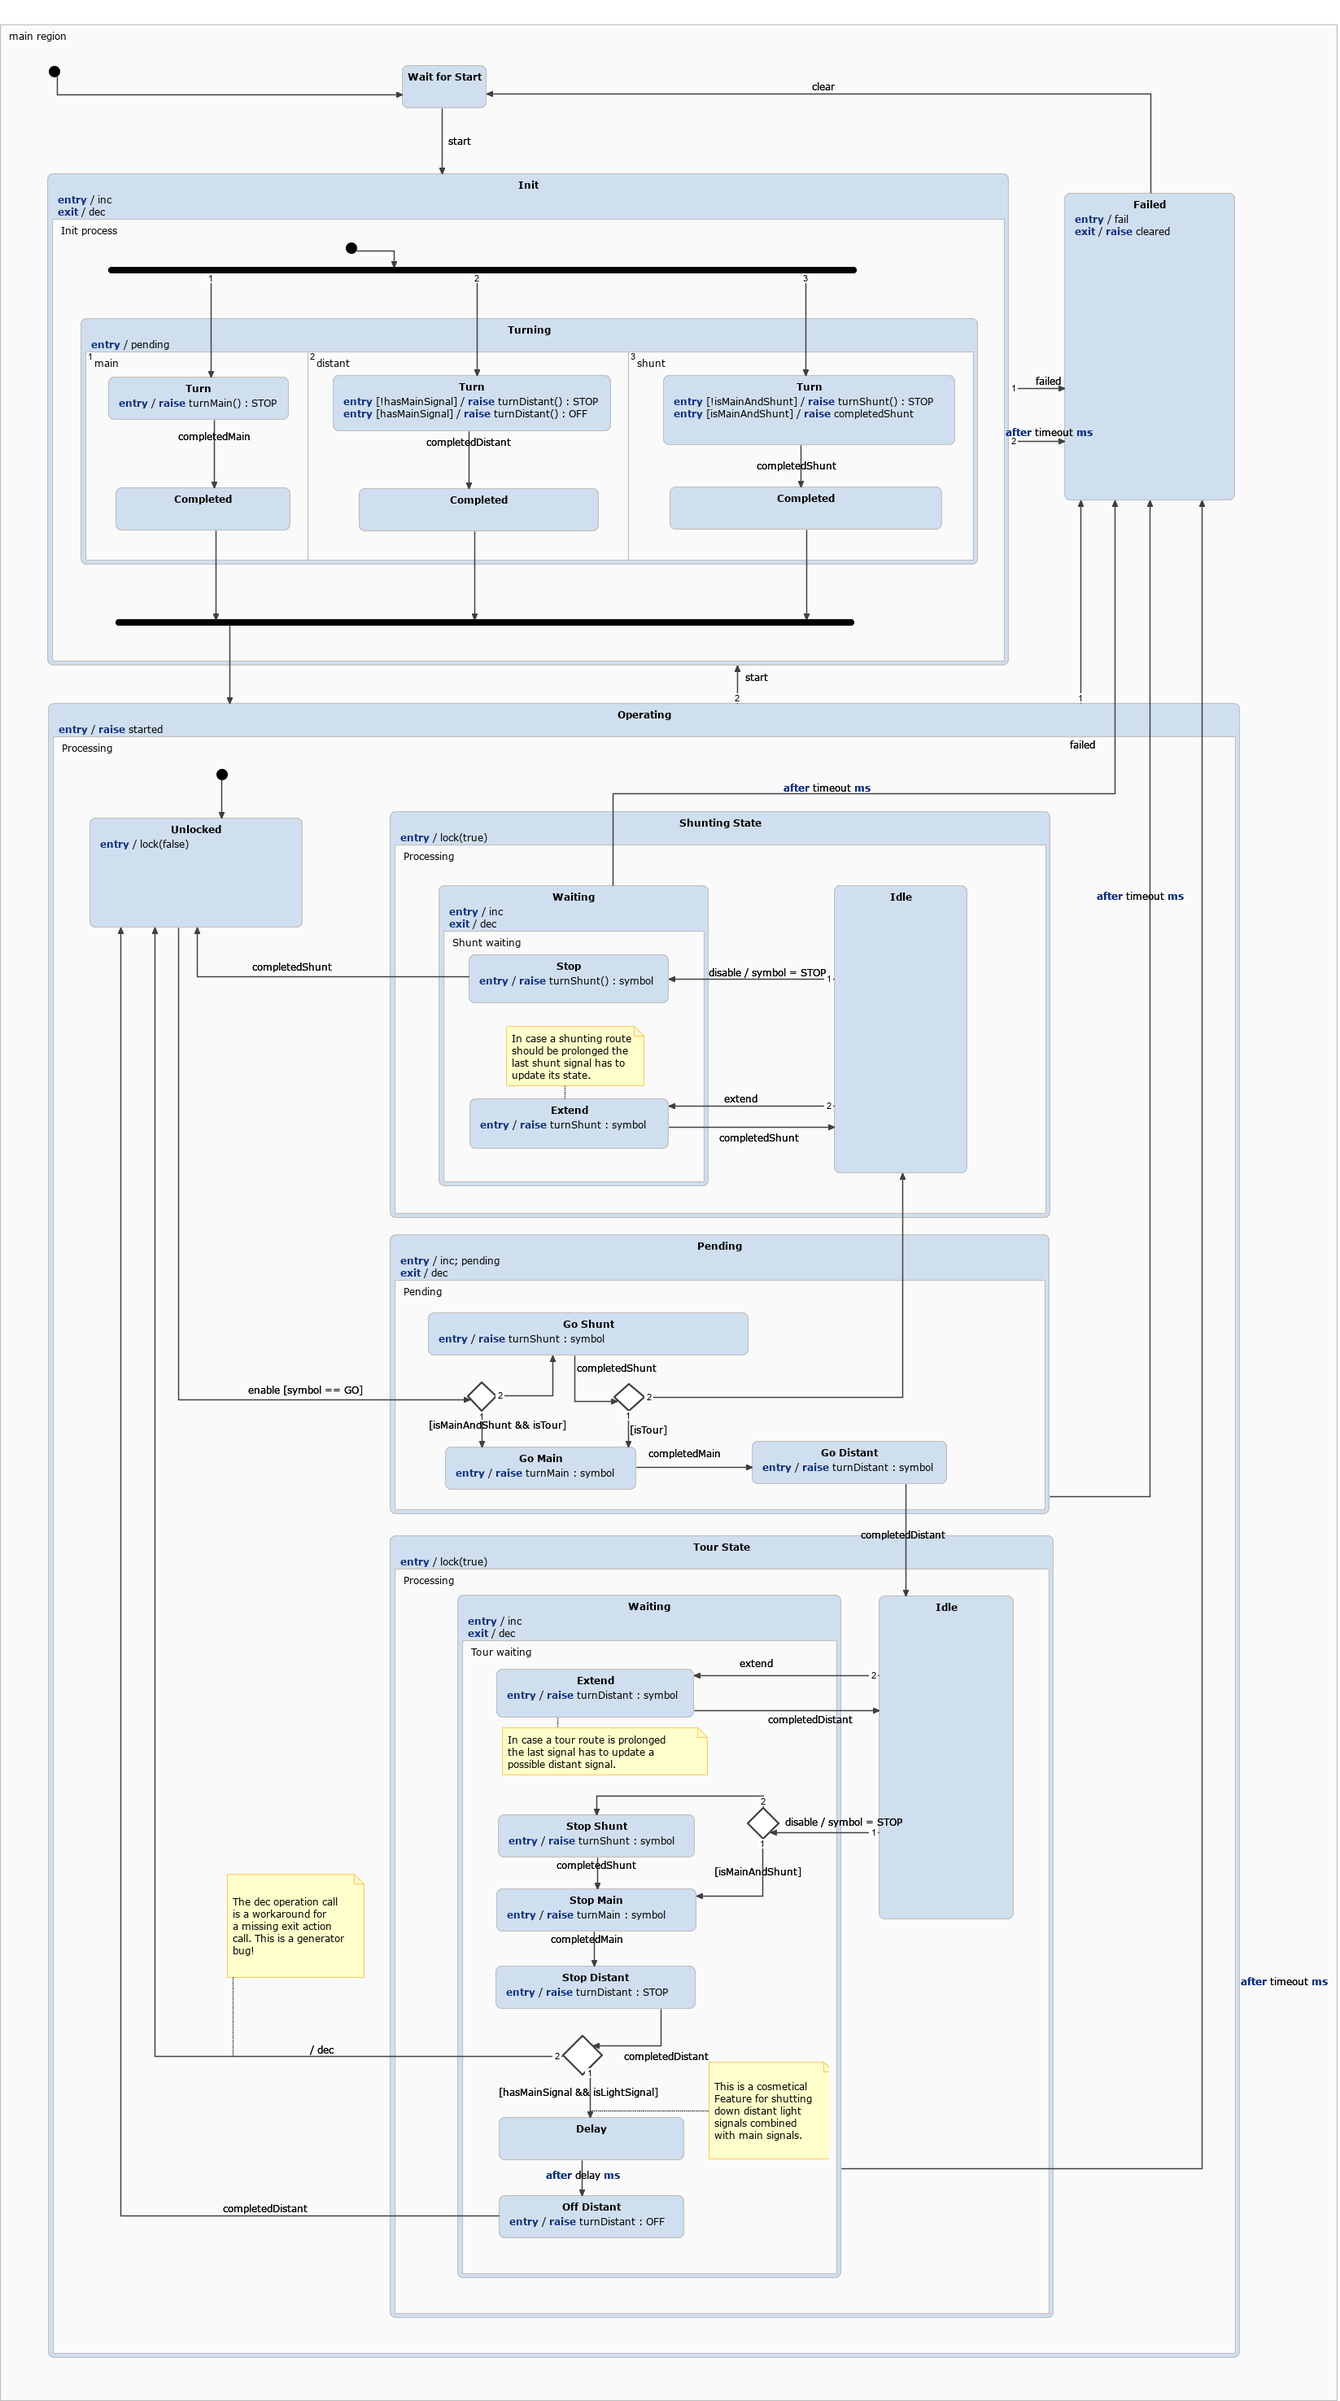
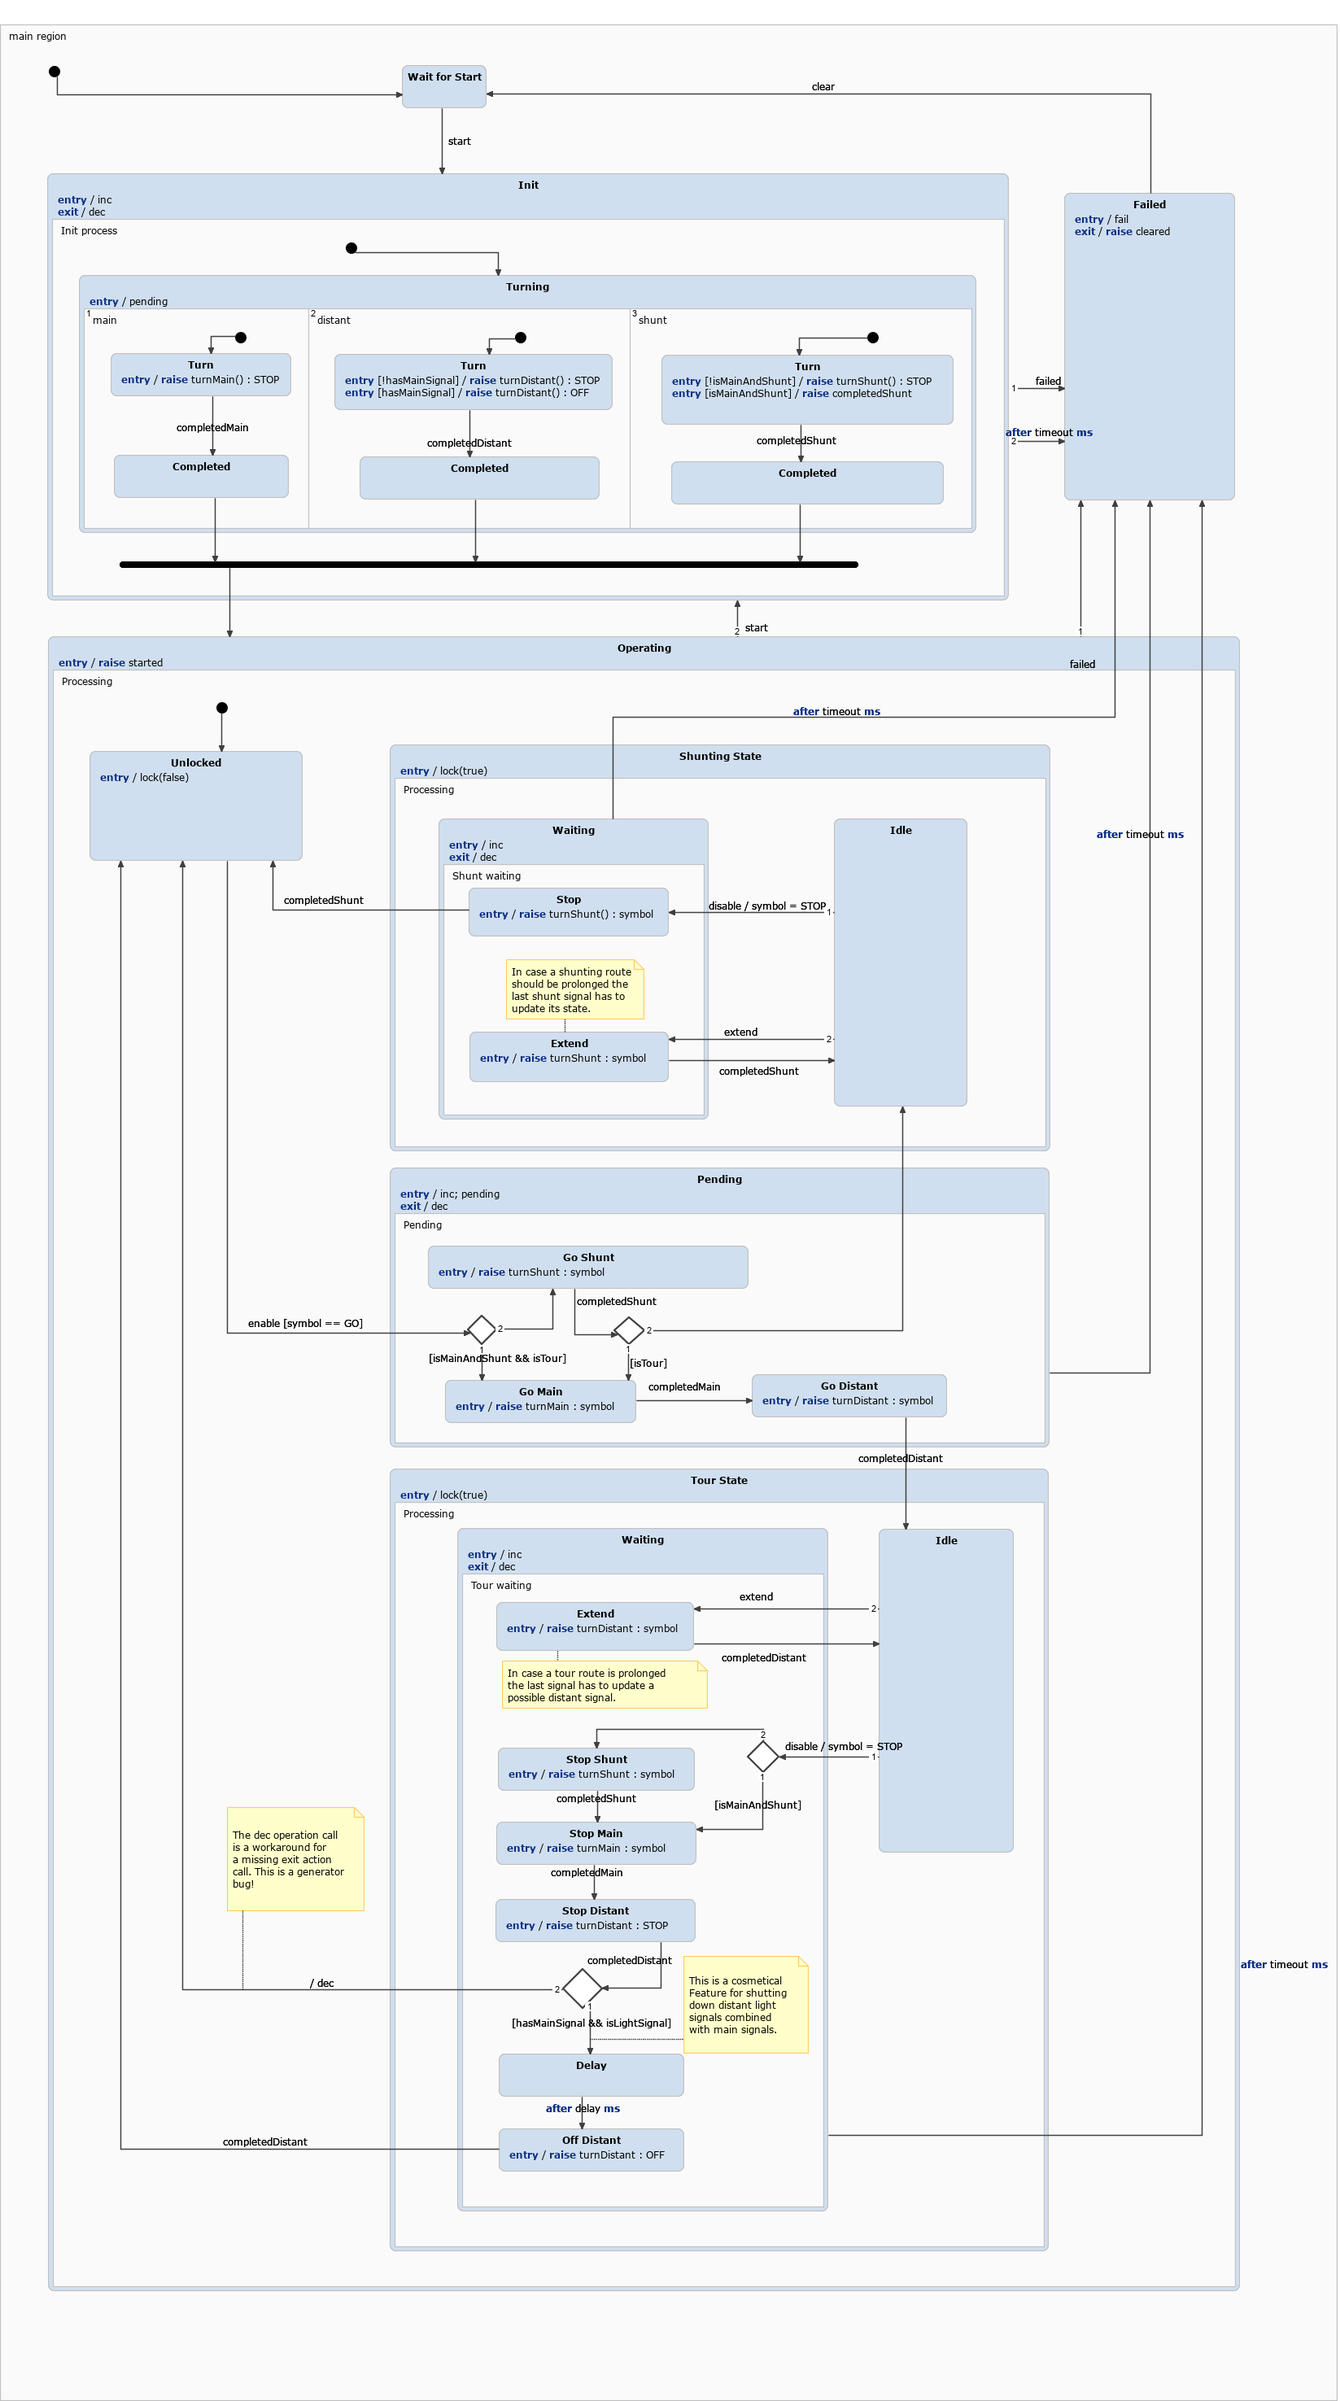
Optimized initialisation of signal controller statechart.

diff --git a/statecharts/test/SignalController/SignalControllerStatechart.cpp b/statecharts/test/SignalController/SignalControllerStatechart.cpp
@@ -784,6 +784,16 @@ namespace mrw
 			enseq_main_region_Init_Init_process_default();
 		}
 
+		/* 'default' enter sequence for state Turning */
+		void SignalControllerStatechart::enseq_main_region_Init_Init_process_Turning_default()
+		{
+			/* 'default' enter sequence for state Turning */
+			enact_main_region_Init_Init_process_Turning();
+			enseq_main_region_Init_Init_process_Turning_main_default();
+			enseq_main_region_Init_Init_process_Turning_distant_default();
+			enseq_main_region_Init_Init_process_Turning_shunt_default();
+		}
+
 		/* 'default' enter sequence for state Turn */
 		void SignalControllerStatechart::enseq_main_region_Init_Init_process_Turning_main_Turn_default()
 		{
@@ -1009,6 +1019,27 @@ namespace mrw
 		{
 			/* 'default' enter sequence for region Init process */
 			react_main_region_Init_Init_process__entry_Default();
+		}
+
+		/* 'default' enter sequence for region main */
+		void SignalControllerStatechart::enseq_main_region_Init_Init_process_Turning_main_default()
+		{
+			/* 'default' enter sequence for region main */
+			react_main_region_Init_Init_process_Turning_main__entry_Default();
+		}
+
+		/* 'default' enter sequence for region distant */
+		void SignalControllerStatechart::enseq_main_region_Init_Init_process_Turning_distant_default()
+		{
+			/* 'default' enter sequence for region distant */
+			react_main_region_Init_Init_process_Turning_distant__entry_Default();
+		}
+
+		/* 'default' enter sequence for region shunt */
+		void SignalControllerStatechart::enseq_main_region_Init_Init_process_Turning_shunt_default()
+		{
+			/* 'default' enter sequence for region shunt */
+			react_main_region_Init_Init_process_Turning_shunt__entry_Default();
 		}
 
 		/* 'default' enter sequence for region Processing */
@@ -1876,10 +1907,31 @@ namespace mrw
 		}
 
 		/* Default react sequence for initial entry  */
+		void SignalControllerStatechart::react_main_region_Init_Init_process_Turning_main__entry_Default()
+		{
+			/* Default react sequence for initial entry  */
+			enseq_main_region_Init_Init_process_Turning_main_Turn_default();
+		}
+
+		/* Default react sequence for initial entry  */
+		void SignalControllerStatechart::react_main_region_Init_Init_process_Turning_distant__entry_Default()
+		{
+			/* Default react sequence for initial entry  */
+			enseq_main_region_Init_Init_process_Turning_distant_Turn_default();
+		}
+
+		/* Default react sequence for initial entry  */
+		void SignalControllerStatechart::react_main_region_Init_Init_process_Turning_shunt__entry_Default()
+		{
+			/* Default react sequence for initial entry  */
+			enseq_main_region_Init_Init_process_Turning_shunt_Turn_default();
+		}
+
+		/* Default react sequence for initial entry  */
 		void SignalControllerStatechart::react_main_region_Init_Init_process__entry_Default()
 		{
 			/* Default react sequence for initial entry  */
-			react_main_region_Init_Init_process__sync0();
+			enseq_main_region_Init_Init_process_Turning_default();
 		}
 
 		/* Default react sequence for initial entry  */
@@ -1891,16 +1943,6 @@ namespace mrw
 
 		/* The reactions of state null. */
 		void SignalControllerStatechart::react_main_region_Init_Init_process__sync0()
-		{
-			/* The reactions of state null. */
-			enact_main_region_Init_Init_process_Turning();
-			enseq_main_region_Init_Init_process_Turning_main_Turn_default();
-			enseq_main_region_Init_Init_process_Turning_distant_Turn_default();
-			enseq_main_region_Init_Init_process_Turning_shunt_Turn_default();
-		}
-
-		/* The reactions of state null. */
-		void SignalControllerStatechart::react_main_region_Init_Init_process__sync1()
 		{
 			/* The reactions of state null. */
 			exseq_main_region_Init();
@@ -2009,7 +2051,7 @@ namespace mrw
 				if ((isStateActive(mrw::statechart::SignalControllerStatechart::State::main_region_Init_Init_process_Turning_distant_Completed)) && (isStateActive(mrw::statechart::SignalControllerStatechart::State::main_region_Init_Init_process_Turning_shunt_Completed)))
 				{
 					exseq_main_region_Init_Init_process_Turning();
-					react_main_region_Init_Init_process__sync1();
+					react_main_region_Init_Init_process__sync0();
 					transitioned_after = 0;
 				}
 			}
@@ -2041,7 +2083,7 @@ namespace mrw
 				if ((isStateActive(mrw::statechart::SignalControllerStatechart::State::main_region_Init_Init_process_Turning_main_Completed)) && (isStateActive(mrw::statechart::SignalControllerStatechart::State::main_region_Init_Init_process_Turning_shunt_Completed)))
 				{
 					exseq_main_region_Init_Init_process_Turning();
-					react_main_region_Init_Init_process__sync1();
+					react_main_region_Init_Init_process__sync0();
 					transitioned_after = 1;
 				}
 			}
@@ -2079,7 +2121,7 @@ namespace mrw
 				if ((isStateActive(mrw::statechart::SignalControllerStatechart::State::main_region_Init_Init_process_Turning_main_Completed)) && (isStateActive(mrw::statechart::SignalControllerStatechart::State::main_region_Init_Init_process_Turning_distant_Completed)))
 				{
 					exseq_main_region_Init_Init_process_Turning();
-					react_main_region_Init_Init_process__sync1();
+					react_main_region_Init_Init_process__sync0();
 					transitioned_after = 2;
 				}
 			}

diff --git a/statecharts/SignalControllerStatechart.cpp b/statecharts/SignalControllerStatechart.cpp
@@ -731,6 +731,16 @@ namespace mrw
 			enseq_main_region_Init_Init_process_default();
 		}
 
+		/* 'default' enter sequence for state Turning */
+		void SignalControllerStatechart::enseq_main_region_Init_Init_process_Turning_default()
+		{
+			/* 'default' enter sequence for state Turning */
+			enact_main_region_Init_Init_process_Turning();
+			enseq_main_region_Init_Init_process_Turning_main_default();
+			enseq_main_region_Init_Init_process_Turning_distant_default();
+			enseq_main_region_Init_Init_process_Turning_shunt_default();
+		}
+
 		/* 'default' enter sequence for state Turn */
 		void SignalControllerStatechart::enseq_main_region_Init_Init_process_Turning_main_Turn_default()
 		{
@@ -956,6 +966,27 @@ namespace mrw
 		{
 			/* 'default' enter sequence for region Init process */
 			react_main_region_Init_Init_process__entry_Default();
+		}
+
+		/* 'default' enter sequence for region main */
+		void SignalControllerStatechart::enseq_main_region_Init_Init_process_Turning_main_default()
+		{
+			/* 'default' enter sequence for region main */
+			react_main_region_Init_Init_process_Turning_main__entry_Default();
+		}
+
+		/* 'default' enter sequence for region distant */
+		void SignalControllerStatechart::enseq_main_region_Init_Init_process_Turning_distant_default()
+		{
+			/* 'default' enter sequence for region distant */
+			react_main_region_Init_Init_process_Turning_distant__entry_Default();
+		}
+
+		/* 'default' enter sequence for region shunt */
+		void SignalControllerStatechart::enseq_main_region_Init_Init_process_Turning_shunt_default()
+		{
+			/* 'default' enter sequence for region shunt */
+			react_main_region_Init_Init_process_Turning_shunt__entry_Default();
 		}
 
 		/* 'default' enter sequence for region Processing */
@@ -1823,10 +1854,31 @@ namespace mrw
 		}
 
 		/* Default react sequence for initial entry  */
+		void SignalControllerStatechart::react_main_region_Init_Init_process_Turning_main__entry_Default()
+		{
+			/* Default react sequence for initial entry  */
+			enseq_main_region_Init_Init_process_Turning_main_Turn_default();
+		}
+
+		/* Default react sequence for initial entry  */
+		void SignalControllerStatechart::react_main_region_Init_Init_process_Turning_distant__entry_Default()
+		{
+			/* Default react sequence for initial entry  */
+			enseq_main_region_Init_Init_process_Turning_distant_Turn_default();
+		}
+
+		/* Default react sequence for initial entry  */
+		void SignalControllerStatechart::react_main_region_Init_Init_process_Turning_shunt__entry_Default()
+		{
+			/* Default react sequence for initial entry  */
+			enseq_main_region_Init_Init_process_Turning_shunt_Turn_default();
+		}
+
+		/* Default react sequence for initial entry  */
 		void SignalControllerStatechart::react_main_region_Init_Init_process__entry_Default()
 		{
 			/* Default react sequence for initial entry  */
-			react_main_region_Init_Init_process__sync0();
+			enseq_main_region_Init_Init_process_Turning_default();
 		}
 
 		/* Default react sequence for initial entry  */
@@ -1838,16 +1890,6 @@ namespace mrw
 
 		/* The reactions of state null. */
 		void SignalControllerStatechart::react_main_region_Init_Init_process__sync0()
-		{
-			/* The reactions of state null. */
-			enact_main_region_Init_Init_process_Turning();
-			enseq_main_region_Init_Init_process_Turning_main_Turn_default();
-			enseq_main_region_Init_Init_process_Turning_distant_Turn_default();
-			enseq_main_region_Init_Init_process_Turning_shunt_Turn_default();
-		}
-
-		/* The reactions of state null. */
-		void SignalControllerStatechart::react_main_region_Init_Init_process__sync1()
 		{
 			/* The reactions of state null. */
 			exseq_main_region_Init();
@@ -1956,7 +1998,7 @@ namespace mrw
 				if ((isStateActive(mrw::statechart::SignalControllerStatechart::State::main_region_Init_Init_process_Turning_distant_Completed)) && (isStateActive(mrw::statechart::SignalControllerStatechart::State::main_region_Init_Init_process_Turning_shunt_Completed)))
 				{
 					exseq_main_region_Init_Init_process_Turning();
-					react_main_region_Init_Init_process__sync1();
+					react_main_region_Init_Init_process__sync0();
 					transitioned_after = 0;
 				}
 			}
@@ -1988,7 +2030,7 @@ namespace mrw
 				if ((isStateActive(mrw::statechart::SignalControllerStatechart::State::main_region_Init_Init_process_Turning_main_Completed)) && (isStateActive(mrw::statechart::SignalControllerStatechart::State::main_region_Init_Init_process_Turning_shunt_Completed)))
 				{
 					exseq_main_region_Init_Init_process_Turning();
-					react_main_region_Init_Init_process__sync1();
+					react_main_region_Init_Init_process__sync0();
 					transitioned_after = 1;
 				}
 			}
@@ -2026,7 +2068,7 @@ namespace mrw
 				if ((isStateActive(mrw::statechart::SignalControllerStatechart::State::main_region_Init_Init_process_Turning_main_Completed)) && (isStateActive(mrw::statechart::SignalControllerStatechart::State::main_region_Init_Init_process_Turning_distant_Completed)))
 				{
 					exseq_main_region_Init_Init_process_Turning();
-					react_main_region_Init_Init_process__sync1();
+					react_main_region_Init_Init_process__sync0();
 					transitioned_after = 2;
 				}
 			}

diff --git a/statecharts/SignalControllerStatechart.h b/statecharts/SignalControllerStatechart.h
@@ -366,6 +366,7 @@ namespace mrw
 			void exact_main_region_Failed();
 			void enseq_main_region_Wait_for_Start_default();
 			void enseq_main_region_Init_default();
+			void enseq_main_region_Init_Init_process_Turning_default();
 			void enseq_main_region_Init_Init_process_Turning_main_Turn_default();
 			void enseq_main_region_Init_Init_process_Turning_main_Completed_default();
 			void enseq_main_region_Init_Init_process_Turning_distant_Turn_default();
@@ -390,6 +391,9 @@ namespace mrw
 			void enseq_main_region_Failed_default();
 			void enseq_main_region_default();
 			void enseq_main_region_Init_Init_process_default();
+			void enseq_main_region_Init_Init_process_Turning_main_default();
+			void enseq_main_region_Init_Init_process_Turning_distant_default();
+			void enseq_main_region_Init_Init_process_Turning_shunt_default();
 			void enseq_main_region_Operating_Processing_default();
 			void exseq_main_region_Wait_for_Start();
 			void exseq_main_region_Init();
@@ -437,10 +441,12 @@ namespace mrw
 			void react_main_region_Operating_Processing_Pending_Pending__choice_0();
 			void react_main_region_Operating_Processing_Pending_Pending__choice_1();
 			void react_main_region__entry_Default();
+			void react_main_region_Init_Init_process_Turning_main__entry_Default();
+			void react_main_region_Init_Init_process_Turning_distant__entry_Default();
+			void react_main_region_Init_Init_process_Turning_shunt__entry_Default();
 			void react_main_region_Init_Init_process__entry_Default();
 			void react_main_region_Operating_Processing__entry_Default();
 			void react_main_region_Init_Init_process__sync0();
-			void react_main_region_Init_Init_process__sync1();
 			sc::integer react(const sc::integer transitioned_before);
 			sc::integer main_region_Wait_for_Start_react(const sc::integer transitioned_before);
 			sc::integer main_region_Init_react(const sc::integer transitioned_before);

diff --git a/statecharts/test/SignalController/SignalControllerStatechart.h b/statecharts/test/SignalController/SignalControllerStatechart.h
@@ -351,6 +351,7 @@ namespace mrw
 			void exact_main_region_Failed();
 			void enseq_main_region_Wait_for_Start_default();
 			void enseq_main_region_Init_default();
+			void enseq_main_region_Init_Init_process_Turning_default();
 			void enseq_main_region_Init_Init_process_Turning_main_Turn_default();
 			void enseq_main_region_Init_Init_process_Turning_main_Completed_default();
 			void enseq_main_region_Init_Init_process_Turning_distant_Turn_default();
@@ -375,6 +376,9 @@ namespace mrw
 			void enseq_main_region_Failed_default();
 			void enseq_main_region_default();
 			void enseq_main_region_Init_Init_process_default();
+			void enseq_main_region_Init_Init_process_Turning_main_default();
+			void enseq_main_region_Init_Init_process_Turning_distant_default();
+			void enseq_main_region_Init_Init_process_Turning_shunt_default();
 			void enseq_main_region_Operating_Processing_default();
 			void exseq_main_region_Wait_for_Start();
 			void exseq_main_region_Init();
@@ -422,10 +426,12 @@ namespace mrw
 			void react_main_region_Operating_Processing_Pending_Pending__choice_0();
 			void react_main_region_Operating_Processing_Pending_Pending__choice_1();
 			void react_main_region__entry_Default();
+			void react_main_region_Init_Init_process_Turning_main__entry_Default();
+			void react_main_region_Init_Init_process_Turning_distant__entry_Default();
+			void react_main_region_Init_Init_process_Turning_shunt__entry_Default();
 			void react_main_region_Init_Init_process__entry_Default();
 			void react_main_region_Operating_Processing__entry_Default();
 			void react_main_region_Init_Init_process__sync0();
-			void react_main_region_Init_Init_process__sync1();
 			sc::integer react(const sc::integer transitioned_before);
 			sc::integer main_region_Wait_for_Start_react(const sc::integer transitioned_before);
 			sc::integer main_region_Init_react(const sc::integer transitioned_before);

diff --git a/track-control/mainwindow.h b/track-control/mainwindow.h
@@ -153,9 +153,9 @@ private:
 	QString dump(
 		const mrw::model::Rail * rail) const;
 
-	Ui::MainWindow          *                   ui;
-	mrw::model::ModelRepository   &             repo;
-	mrw::model::Route        *                  beer_route = nullptr;
+	Ui::MainWindow               *              ui;
+	mrw::model::ModelRepository        &        repo;
+	mrw::model::Route             *             beer_route = nullptr;
 	mrw::statechart::OperatingModeStatechart    statechart;
 };
 
